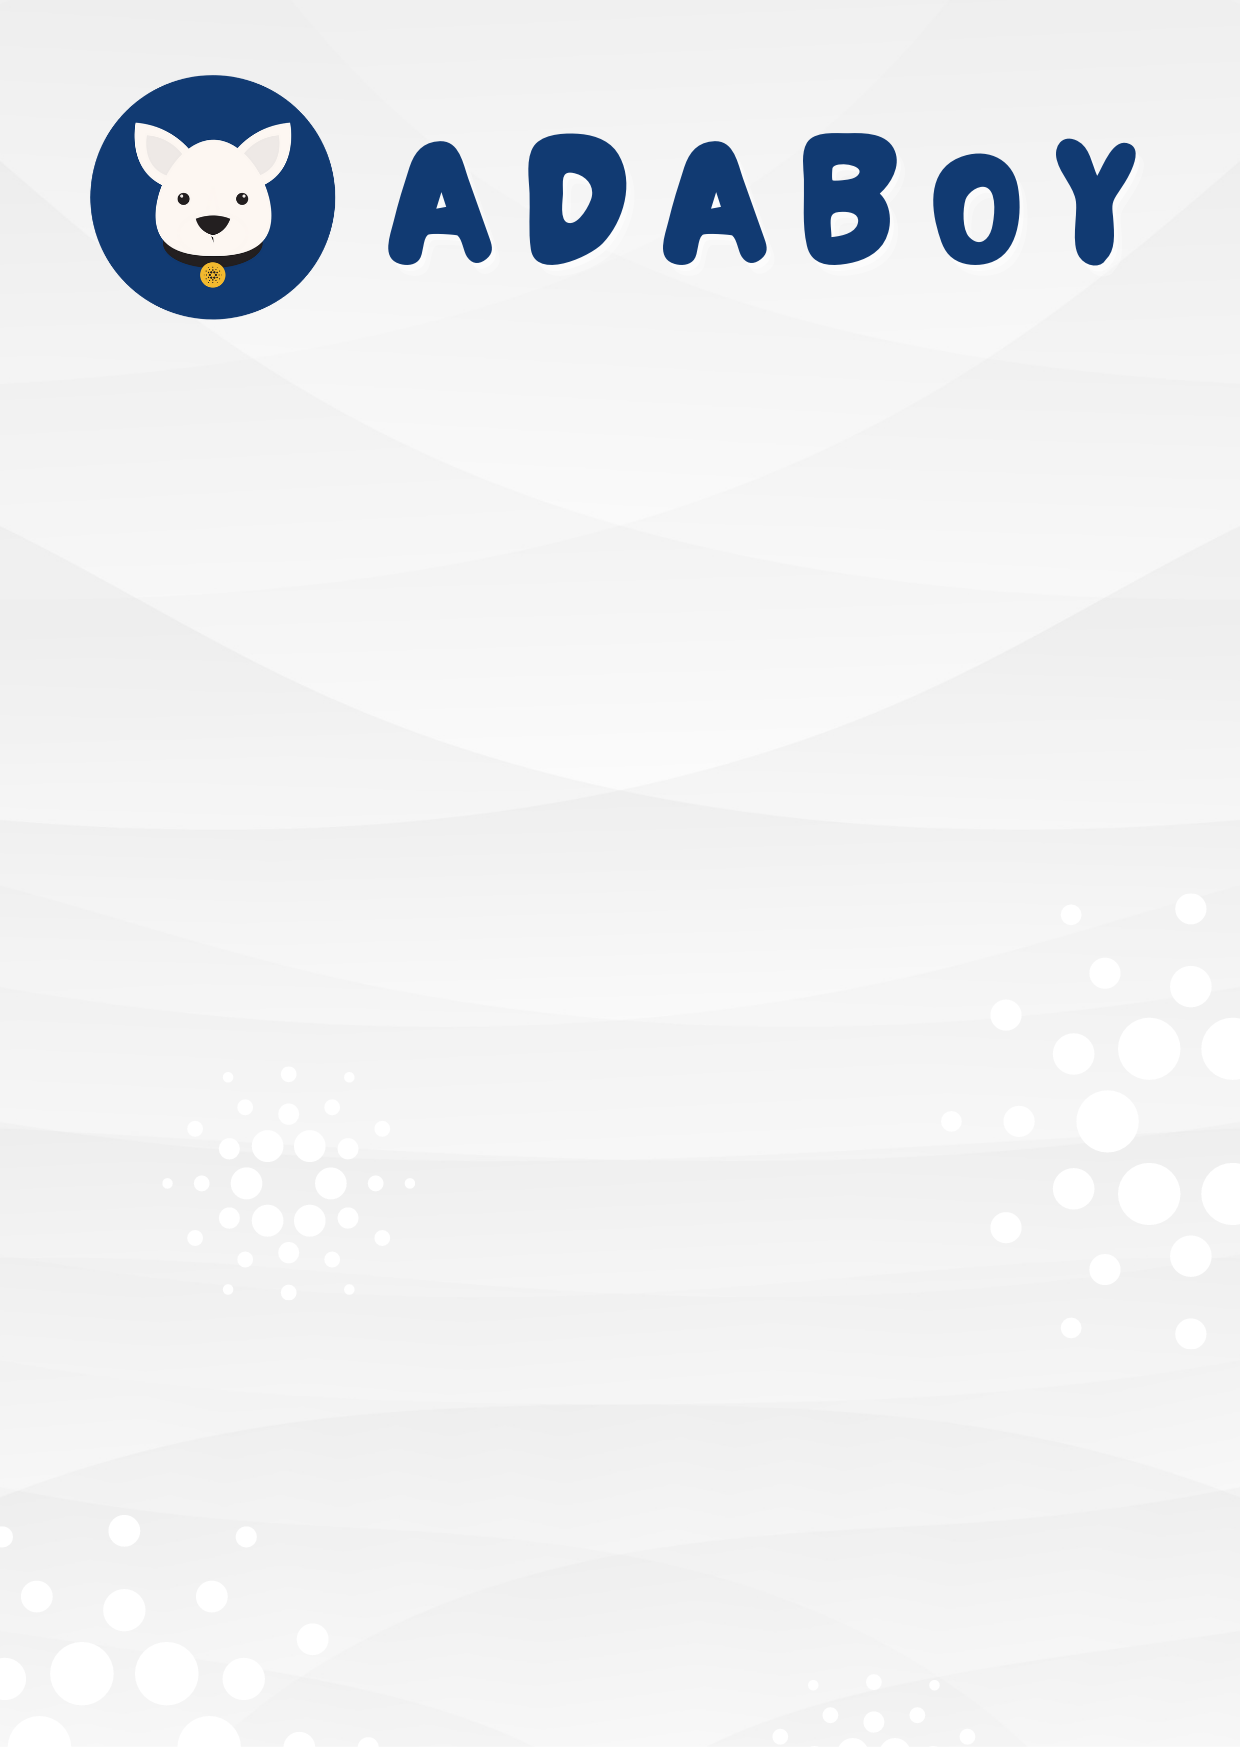
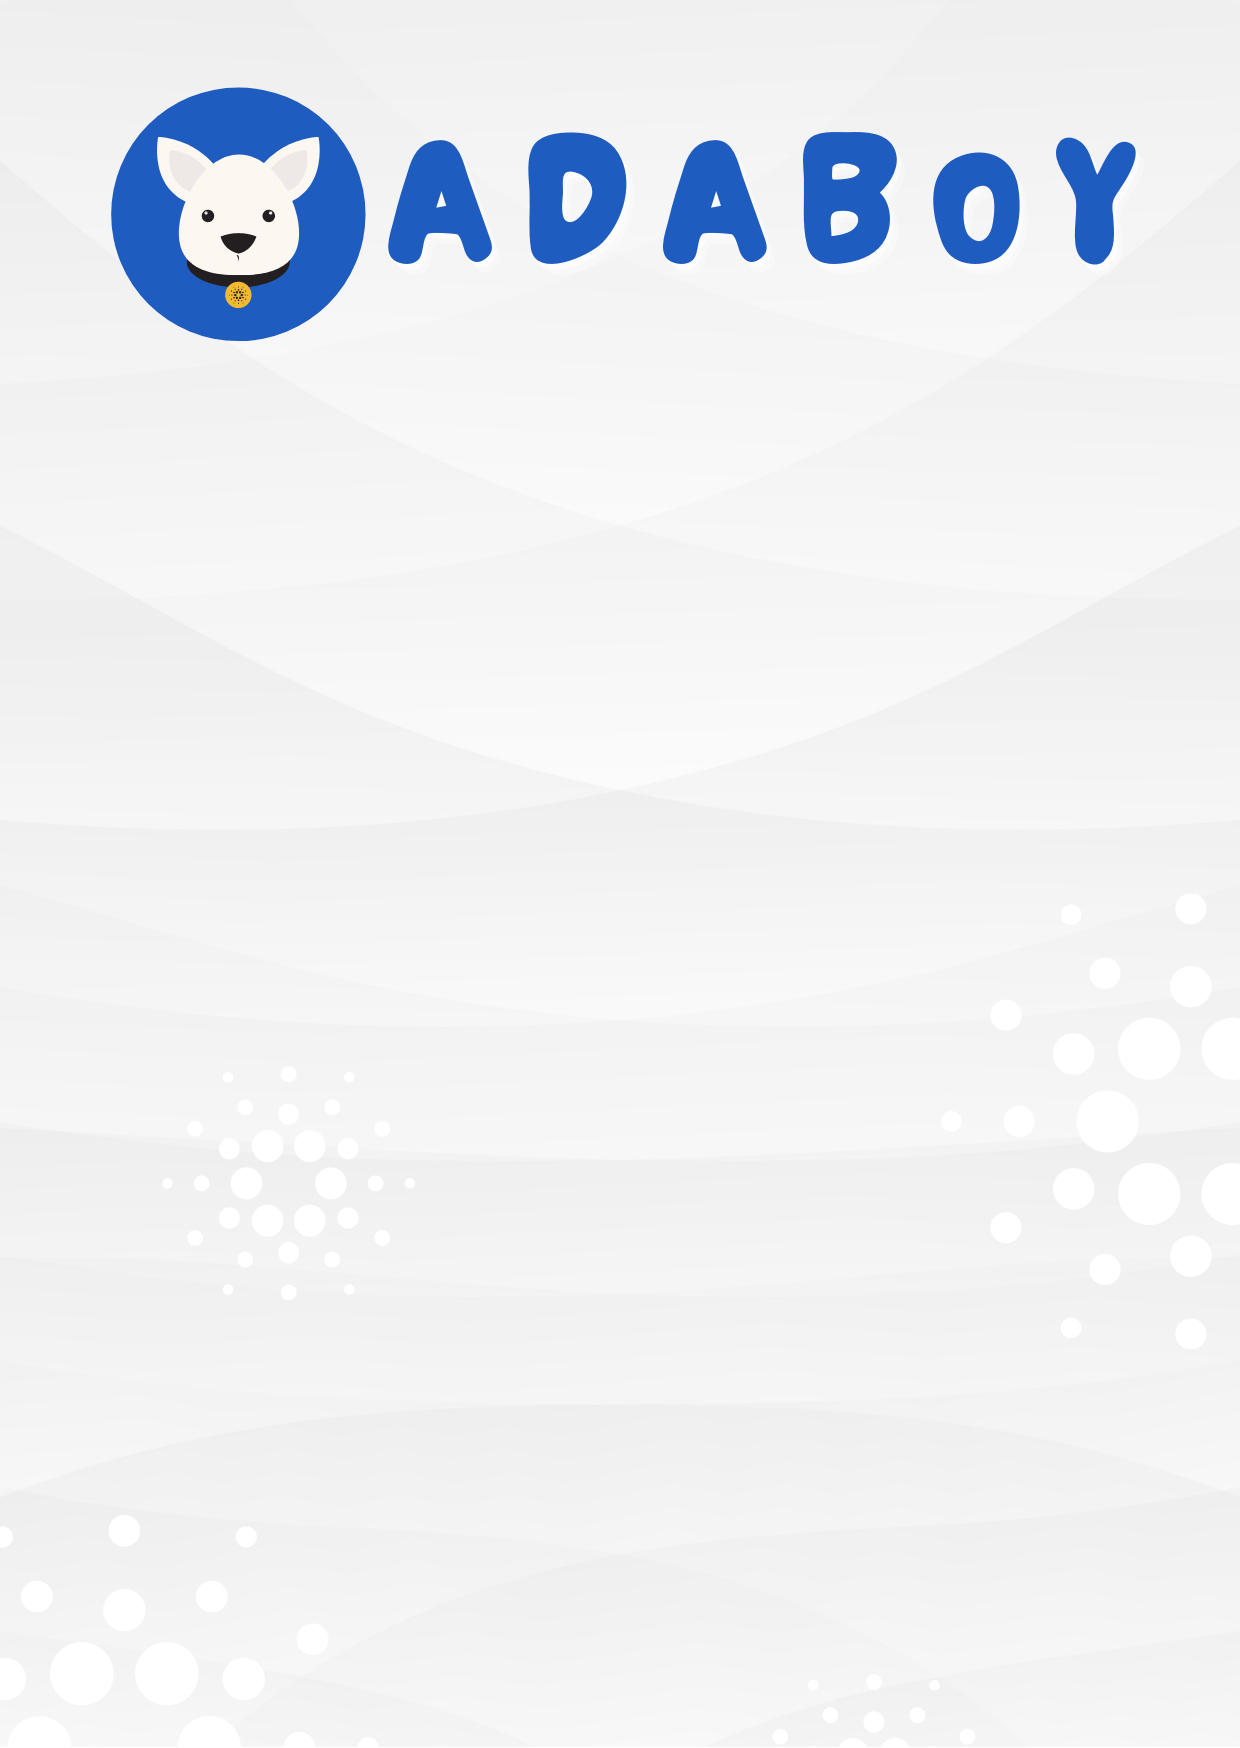
changed blue to match socials and added roadmap

diff --git a/src/components/Navbar/NavbarElements.js b/src/components/Navbar/NavbarElements.js
@@ -3,7 +3,7 @@ import { Link as LinkR } from 'react-router-dom';
 import styled from 'styled-components';
 
 export const Nav = styled.nav`
-  background: #113A72;
+  background: #1F5CC0;
   height: 80px;
   margin-top: -80px;
   display: flex;
@@ -46,7 +46,7 @@ export const MobileIcon = styled.div`
 
   @media screen and (max-width: 768px) {
     display: block;
-    color: '#113A72';
+    color: '#1F5CC0';
     position: absolute;
     top: 0;
     right: 0;
@@ -83,7 +83,7 @@ export const NavBtn = styled.nav`
 `;
 
 export const NavLinks = styled(LinkS)`
-  color: '#113A72';
+  color: '#1F5CC0';
   display: flex;
   align-items: center;
   text-decoration: none;
@@ -101,7 +101,7 @@ export const NavBtnLink = styled(LinkR)`
   background: #FFC22E;
   white-space: nowrap;
   padding: 10px 22px;
-  color: #113A72;
+  color: #1F5CC0;
   font-size: 16px;
   outline: none;
   border: none;
@@ -112,6 +112,6 @@ export const NavBtnLink = styled(LinkR)`
   &:hover {
     transition: all 0.2s ease-in-out;
     background: #FFF;
-    color: #113A72;
+    color: #1F5CC0;
   }
 `;

diff --git a/src/components/InfoSection/Data.js b/src/components/InfoSection/Data.js
@@ -44,7 +44,7 @@ export const homeObjThree = {
   topLine: 'ADABoy Plan',
   headline: 'Organic Roots, Meaty Results',
   description:
-    'ADABoy was born with an established community. The ADABoy Pack is commited to community success. Family first. From there, an aggressive marketing campaign will transpire. Advertising choices will target the amount of buyers needed to grow our community. The bigger ADABoy gets, the louder it will bark. Click below for more information or scroll down to the ADABoy Roadmap.',
+    'ADABoy was born with an established community. The ADABoy Pack is committed to community success. Family first. From there, an aggressive marketing campaign will transpire. Advertising choices will target the amount of buyers needed to grow our community. The bigger ADABoy gets, the louder it will bark. Click below for more information or scroll down to the ADABoy Roadmap.',
   buttonLabel: 'Litepaper',
   href: '',
   imgStart: true,

diff --git a/src/components/Services/index.js b/src/components/Services/index.js
@@ -19,21 +19,21 @@ const Services = () => {
       <ServicesWrapper>
         <ServicesCard>
           <ServicesIcon src={Icon1} />
-          <ServicesH2>X% ADA Redistribution</ServicesH2>
+          <ServicesH2>8% ADA Redistribution</ServicesH2>
           <ServicesP>
             Rewards distributed as BEP-20 ADA.
           </ServicesP>
         </ServicesCard>
         <ServicesCard>
           <ServicesIcon src={Icon2} />
-          <ServicesH2>Y% Liquidity Pool</ServicesH2>
+          <ServicesH2>3% Liquidity Pool</ServicesH2>
           <ServicesP>
             Liquidity is locked on <a href='/'>DxSale</a>.
           </ServicesP>
         </ServicesCard>
         <ServicesCard>
           <ServicesIcon src={Icon3} />
-          <ServicesH2> Less than Y% Marketing</ServicesH2>
+          <ServicesH2>1% Marketing</ServicesH2>
           <ServicesP>
             Quality marketing focused on building community.
           </ServicesP>

diff --git a/src/components/Sidebar/SidebarElements.js b/src/components/Sidebar/SidebarElements.js
@@ -8,7 +8,7 @@ export const SidebarContainer = styled.aside`
   z-index: 999;
   width: 100%;
   height: 100%;
-  background: #113A72;
+  background: #1F5CC0;
   display: grid;
   align-items: center;
   top: 0;
@@ -77,7 +77,7 @@ export const SidebarRoute = styled(LinkR)`
   background: #FFC22E;
   white-space: nowrap;
   padding: 16px 64px;
-  color: #113A72;
+  color: #1F5CC0;
   font-size: 16px;
   outline: none;
   border: none;
@@ -88,6 +88,6 @@ export const SidebarRoute = styled(LinkR)`
   &:hover {
     transition: all 0.2s ease-in-out;
     background: #FFF;
-    color: #113A72;
+    color: #1F5CC0;
   }
 `;

diff --git a/src/components/Button.js b/src/components/Button.js
@@ -4,10 +4,10 @@ export const Button = styled.a`
   border-radius: 50px;
   margin-right: 10px;
   margin-left: 10px;
-  background: ${({ primary }) => (primary ? '#FFC22E' : '#113A72')};
+  background: ${({ primary }) => (primary ? '#FFC22E' : '#1F5CC0')};
   white-space: nowrap;
   padding: ${({ big }) => (big ? '14px 48px' : '12px 30px')};
-  color: ${({ dark }) => (dark ? '#113A72' : '#FFFFFF')};
+  color: ${({ dark }) => (dark ? '#1F5CC0' : '#FFFFFF')};
   font-size: ${({ fontBig }) => (fontBig ? '20px' : '16px')};
   outline: none;
   border: none;

diff --git a/src/components/ButtonElements.js b/src/components/ButtonElements.js
@@ -3,10 +3,10 @@ import { Link } from 'react-scroll';
 
 export const Button = styled(Link)`
   border-radius: 50px;
-  background: ${({ primary }) => (primary ? '#FFC22E' : '#113A72')};
+  background: ${({ primary }) => (primary ? '#FFC22E' : '#1F5CC0')};
   white-space: nowrap;
   padding: ${({ big }) => (big ? '14px 48px' : '12px 30px')};
-  color: ${({ dark }) => (dark ? '#113A72' : '#FFFFFF')};
+  color: ${({ dark }) => (dark ? '#1F5CC0' : '#FFFFFF')};
   font-size: ${({ fontBig }) => (fontBig ? '20px' : '16px')};
   outline: none;
   border: none;

diff --git a/src/pages/index.js b/src/pages/index.js
@@ -12,6 +12,7 @@ import {
 } from '../components/InfoSection/Data';
 import UsecasesSection from '../components/UsecasesSection';
 import Services from '../components/Services';
+import RoadmapSection from '../components/RoadmapSection';
 
 function Home() {
   const [isOpen, setIsOpen] = useState(false);
@@ -29,6 +30,7 @@ function Home() {
       <UsecasesSection />
       <InfoSection {...homeObjTwo} />
       <Services />
+      <RoadmapSection />
       <InfoSection {...homeObjFour} />
       <Footer />
     </>

diff --git a/src/components/InfoSection/InfoElements.js b/src/components/InfoSection/InfoElements.js
@@ -2,7 +2,7 @@ import styled from 'styled-components';
 
 export const InfoContainer = styled.div`
   color: #FFF;
-  background: ${({ lightBg }) => (lightBg ? '#f9f9f9' : '#113A72')};
+  background: ${({ lightBg }) => (lightBg ? '#f9f9f9' : '#1F5CC0')};
   font-size: 1.1rem;
 
   @media screen and (max-width: 768px) {
@@ -56,7 +56,7 @@ export const TextWrapper = styled.div`
 `;
 
 export const TopLine = styled.div`
-  color: #113A72;
+  color: #1F5CC0;
   font-size: 16px;
   line-height: 16px;
   font-weight: 700;

diff --git a/src/components/Services/ServicesElements.js b/src/components/Services/ServicesElements.js
@@ -6,7 +6,7 @@ export const ServicesContainer = styled.div`
   flex-direction: column;
   justify-content: center;
   align-items: center;
-  background: #113A72;
+  background: #1F5CC0;
   color: #FFC22E;
 
   @media screen and (max-width: 768px) {
@@ -73,7 +73,7 @@ export const ServicesH1 = styled.h1`
 `;
 
 export const ServicesH2 = styled.h2`
-  color: #113A72;
+  color: #1F5CC0;
   font-size: 1.1rem;
   text-align: center;
   margin-bottom: 10px;

diff --git a/src/components/UsecasesSection/UsecasesElements.js b/src/components/UsecasesSection/UsecasesElements.js
@@ -6,7 +6,7 @@ export const UsecasesContainer = styled.div`
   flex-direction: column;
   justify-content: center;
   align-items: center;
-  background: #113A72;
+  background: #1F5CC0;
   color: #FFC22E;
 
   @media screen and (max-width: 768px) {
@@ -67,7 +67,7 @@ export const UsecasesH1 = styled.h1`
 `;
 
 export const UsecasesH2 = styled.h2`
-  color: #113A72;
+  color: #1F5CC0;
   font-size: 1.3rem;
   margin-bottom: 10px;
 `;

diff --git a/src/components/HeroSection/HeroElements.js b/src/components/HeroSection/HeroElements.js
@@ -64,7 +64,7 @@ export const SocialIcons = styled.div`
 `;
 
 export const SocialIconLink = styled.a`
-  color: #113A72;
+  color: #1F5CC0;
   font-size: 24px;
 `;
 
@@ -78,7 +78,7 @@ export const HeroImage = styled.img`
 `
 
 export const HeroH1 = styled.h1`
-  color: #113A72;
+  color: #1F5CC0;
   font-size: 48px;
   text-align: center;
   margin-top: -6px;

diff --git a/src/components/RoadmapSection/index.js b/src/components/RoadmapSection/index.js
@@ -1,0 +1,17 @@
+import React from 'react';
+import Image from '../../images/roadmap.png';
+
+import {
+  RoadmapContainer,
+  RoadmapImg
+} from './RoadmapElements';
+
+const RoadmapSection = () => {
+  return (
+    <RoadmapContainer>
+      <RoadmapImg src={Image} alt='roadmap'/>
+    </RoadmapContainer>
+  )
+}
+
+export default RoadmapSection;
